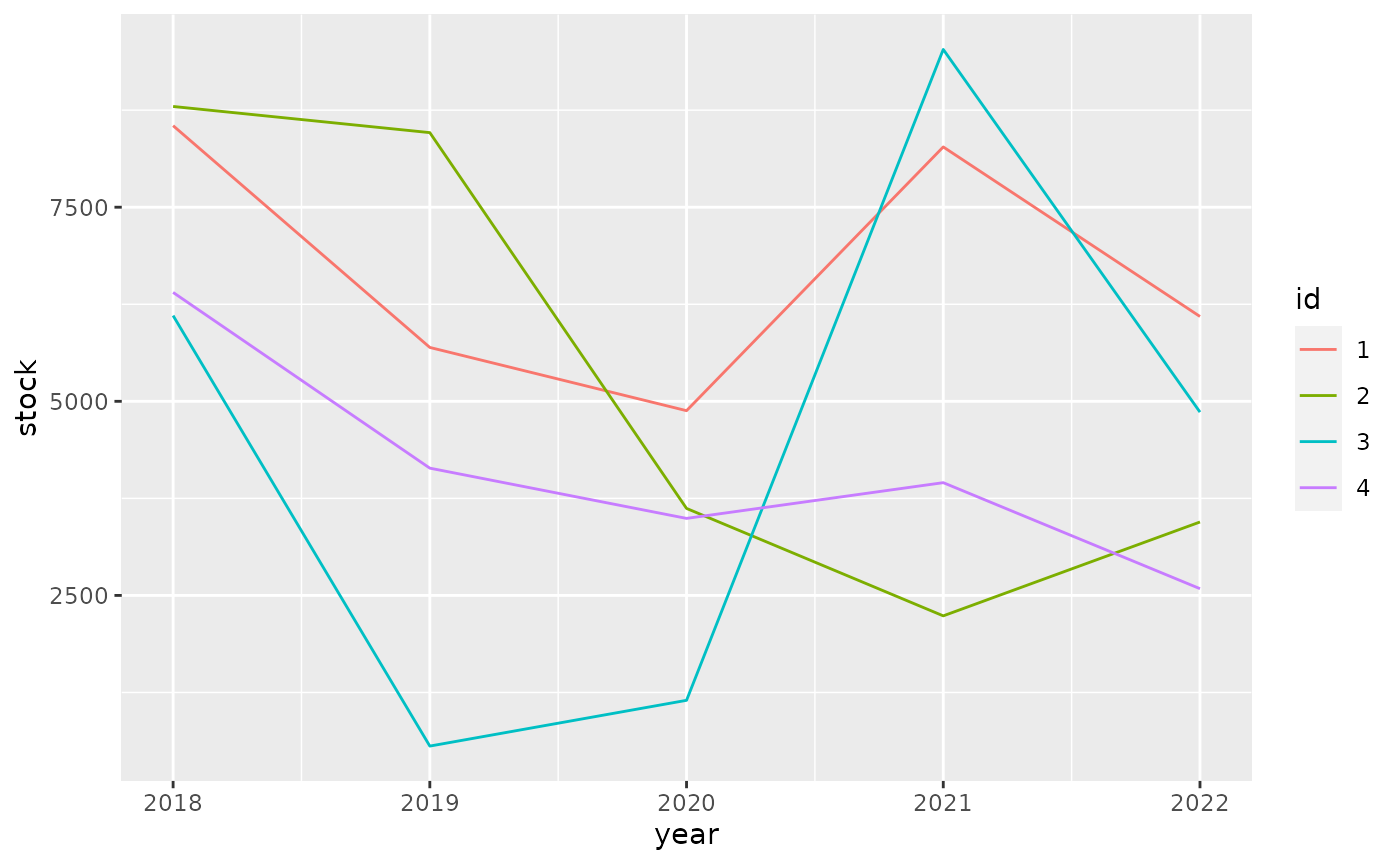
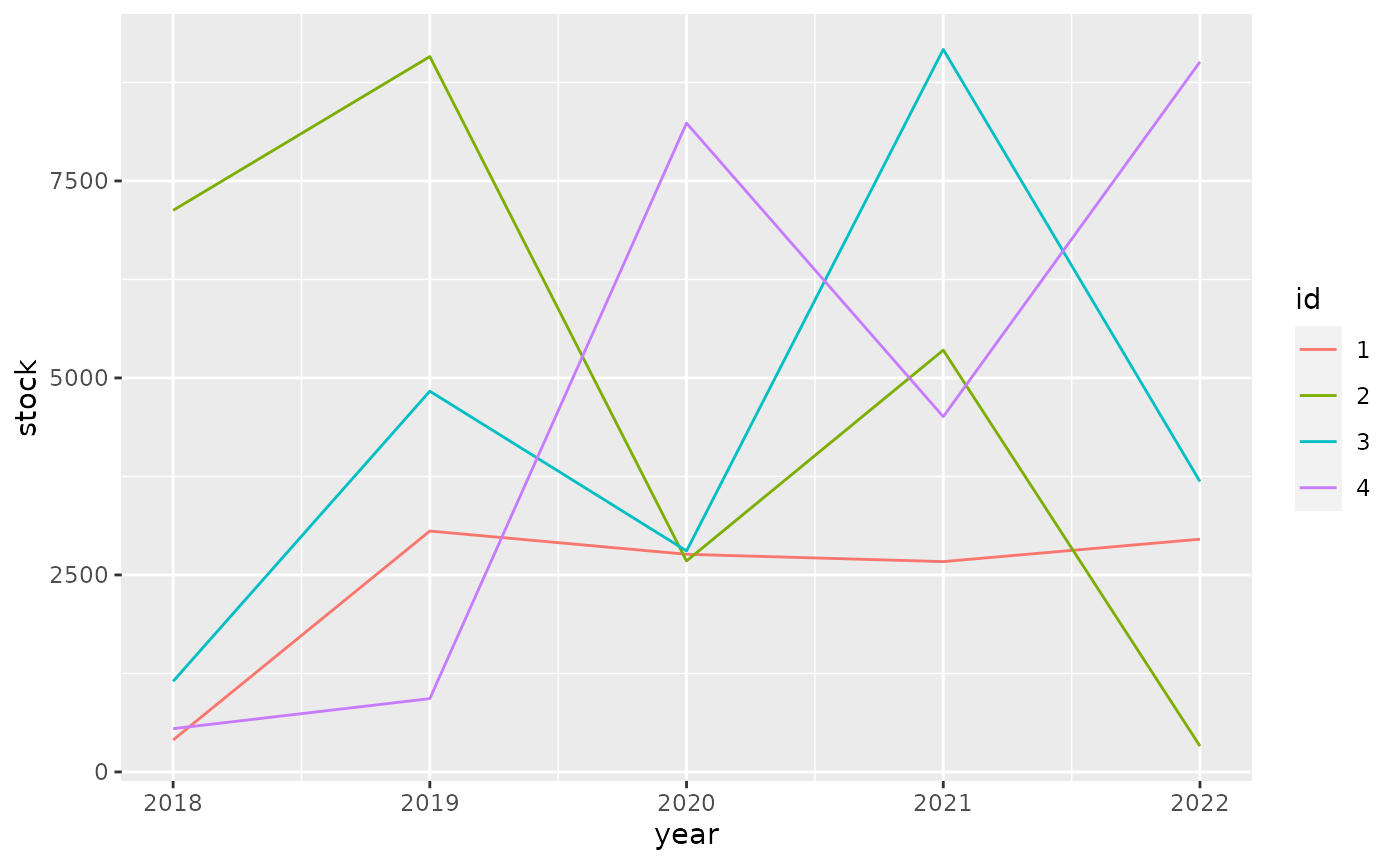
Built site for tibble: 3.1.1@6926f2c

diff --git a/articles/formats.html b/articles/formats.html
@@ -220,10 +220,10 @@
 <span class="co">#&gt; # A tibble: 4 x 6</span>
 <span class="co">#&gt;   id       `2018`    `2019`    `2020`    `2021`    `2022`</span>
 <span class="co">#&gt;   &lt;fct&gt; &lt;dbl:fmt&gt; &lt;dbl:fmt&gt; &lt;dbl:fmt&gt; &lt;dbl:fmt&gt; &lt;dbl:fmt&gt;</span>
-<span class="co">#&gt; 1 1     $8,550.19 $5,693.95 $4,879.44 $8,276.35 $6,092.59</span>
-<span class="co">#&gt; 2 2     $8,797.54 $8,460.61 $3,620.41 $2,236.76 $3,445.74</span>
-<span class="co">#&gt; 3 3     $6,104.12   $559.54 $1,148.95 $9,532.03 $4,860.83</span>
-<span class="co">#&gt; 4 4     $6,402.59 $4,139.20 $3,492.07 $3,952.30 $2,586.79</span></code></pre></div>
+<span class="co">#&gt; 1 1       $405.69 $3,057.14 $2,762.27 $2,669.20 $2,953.64</span>
+<span class="co">#&gt; 2 2     $7,126.64 $9,077.79 $2,677.16 $5,352.59   $328.29</span>
+<span class="co">#&gt; 3 3     $1,149.65 $4,831.61 $2,804.90 $9,168.54 $3,685.14</span>
+<span class="co">#&gt; 4 4       $549.12   $930.29 $8,233.70 $4,508.70 $9,011.88</span></code></pre></div>
 <p>For ggplot2 we need to do <a href="https://github.com/tidyverse/ggplot2/pull/4065" class="external-link">some work</a> to show apply the formatting to the scales.</p>
 <div class="sourceCode" id="cb6"><pre class="downlit sourceCode r">
 <code class="sourceCode R"><span class="kw"><a href="https://rdrr.io/r/base/library.html" class="external-link">library</a></span><span class="op">(</span><span class="va"><a href="https://ggplot2.tidyverse.org" class="external-link">ggplot2</a></span><span class="op">)</span>
@@ -234,10 +234,10 @@
   <span class="fu"><a href="https://ggplot2.tidyverse.org/reference/geom_path.html" class="external-link">geom_line</a></span><span class="op">(</span><span class="op">)</span></code></pre></div>
 <p><img src="formats_files/figure-html/unnamed-chunk-7-1.png" width="700"></p>
 <p>It pays off to specify formatting very early in the process. The diagram below shows the principal stages of data analysis and exploration from “R for data science”.</p>
-<div id="htmlwidget-d192fd4c2e72b564b6b4" style="width:700px;height:432.632880098888px;" class="DiagrammeR html-widget"></div>
-<script type="application/json" data-for="htmlwidget-d192fd4c2e72b564b6b4">{"x":{"diagram":"graph TD\n  Import --> Tidy\n  Tidy --> Transform\n  Transform --> Visualize\n  Visualize --> Communicate\n  Visualize --> Model\n  Model -.-> Transform"},"evals":[],"jsHooks":[]}</script><p>The subsequent diagram adds data formats, communication options, and explicit data formatting. The original r4ds transitions are highlighted in bold. There are two principal options where to apply formatting for results: right before communicating them, or right after importing.</p>
-<div id="htmlwidget-dab7a25208029a7ea3ed" style="width:700px;height:432.632880098888px;" class="DiagrammeR html-widget"></div>
-<script type="application/json" data-for="htmlwidget-dab7a25208029a7ea3ed">{"x":{"diagram":"graph TD\n  .csv --> Import\n  API --> Import\n  DBI --> Import\n  dbplyr --> Import\n  Import -.-> Format[Format for analysis]\n  Format -.-> Tidy\n\n  subgraph r4ds\n  Import ==> Tidy\n  Tidy ==> Transform\n  Transform ==> Visualize\n  Visualize ==> Model\n  Model -.-> Transform\n  Visualize ==> Communicate\n  end\n\n  Visualize -.-> FormatComm[Format for communication]\n  FormatComm -.-> Communicate\n\n  FormatComm -- Apply formatting early --> Format\n\n  dbplyr -.-> Tidy\n  dbplyr -.-> Transform\n  dbplyr -.-> Visualize\n\n  Communicate --> gt\n  Communicate --> ggplot2\n  Communicate --> DT\n  Communicate --> plotly"},"evals":[],"jsHooks":[]}</script><p>Applying formatting early in the process gives the added benefit of showing the data in a useful format during the “Tidy”, “Transform”, and “Visualize” stages. For this to be useful, we need to ensure that the formatting options applied early:</p>
+<div id="htmlwidget-12e0195493898a10426d" style="width:700px;height:432.632880098888px;" class="DiagrammeR html-widget"></div>
+<script type="application/json" data-for="htmlwidget-12e0195493898a10426d">{"x":{"diagram":"graph TD\n  Import --> Tidy\n  Tidy --> Transform\n  Transform --> Visualize\n  Visualize --> Communicate\n  Visualize --> Model\n  Model -.-> Transform"},"evals":[],"jsHooks":[]}</script><p>The subsequent diagram adds data formats, communication options, and explicit data formatting. The original r4ds transitions are highlighted in bold. There are two principal options where to apply formatting for results: right before communicating them, or right after importing.</p>
+<div id="htmlwidget-5d15a429714535a90e80" style="width:700px;height:432.632880098888px;" class="DiagrammeR html-widget"></div>
+<script type="application/json" data-for="htmlwidget-5d15a429714535a90e80">{"x":{"diagram":"graph TD\n  .csv --> Import\n  API --> Import\n  DBI --> Import\n  dbplyr --> Import\n  Import -.-> Format[Format for analysis]\n  Format -.-> Tidy\n\n  subgraph r4ds\n  Import ==> Tidy\n  Tidy ==> Transform\n  Transform ==> Visualize\n  Visualize ==> Model\n  Model -.-> Transform\n  Visualize ==> Communicate\n  end\n\n  Visualize -.-> FormatComm[Format for communication]\n  FormatComm -.-> Communicate\n\n  FormatComm -- Apply formatting early --> Format\n\n  dbplyr -.-> Tidy\n  dbplyr -.-> Transform\n  dbplyr -.-> Visualize\n\n  Communicate --> gt\n  Communicate --> ggplot2\n  Communicate --> DT\n  Communicate --> plotly"},"evals":[],"jsHooks":[]}</script><p>Applying formatting early in the process gives the added benefit of showing the data in a useful format during the “Tidy”, “Transform”, and “Visualize” stages. For this to be useful, we need to ensure that the formatting options applied early:</p>
 <ul>
 <li>give a good user experience for analysis
 <ul>

diff --git a/index.html b/index.html
@@ -196,7 +196,7 @@
 <span class="c">#&gt; <span style="color: #555555;">3</span><span>     3     1    10</span></span>
 <span class="c">#&gt; <span style="color: #555555;">4</span><span>     4     1    17</span></span>
 <span class="c">#&gt; <span style="color: #555555;">5</span><span>     5     1    26</span></span></pre>
-<p><a href="https://tibble.tidyverse.org/reference/tibble.html"><code>tibble()</code></a> does much less than <a href="https://rdrr.io/r/base/data.frame.html" class="external-link"><code>data.frame()</code></a>: it never changes the type of the inputs (e.g. it never converts strings to factors!), it never changes the names of variables, it only recycles inputs of length 1, and it never creates <a href="https://rdrr.io/r/base/row.names.html" class="external-link"><code>row.names()</code></a>. You can read more about these features in the vignette, <code><a href="articles/tibble.html">vignette("tibble")</a></code>.</p>
+<p><a href="https://tibble.tidyverse.org/reference/tibble.html"><code>tibble()</code></a> does much less than <a href="https://rdrr.io/r/base/data.frame.html" class="external-link"><code>data.frame()</code></a>: it never changes the type of the inputs (e.g. it never converts strings to factors!), it never changes the names of variables, it only recycles inputs of length 1, and it never creates <a href="https://rdrr.io/r/base/row.names.html" class="external-link"><code>row.names()</code></a>. You can read more about these features in <code><a href="articles/tibble.html">vignette("tibble")</a></code>.</p>
 <p>You can define a tibble row-by-row with <a href="https://tibble.tidyverse.org/reference/tribble.html"><code>tribble()</code></a>:</p>
 <pre class="chroma">
 <span class="nf"><a href="https://tibble.tidyverse.org/reference/tribble.html">tribble</a></span><span class="o">(</span>

diff --git a/articles/types.html b/articles/types.html
@@ -351,7 +351,7 @@
 #&gt; $ factor        &lt;fct&gt; A
 #&gt; $ ordered       &lt;ord&gt; a
 #&gt; $ Date          &lt;date&gt; 2021-04-18
-#&gt; $ POSIXt        &lt;dttm&gt; 2021-04-18 07:32:46
+#&gt; $ POSIXt        &lt;dttm&gt; 2021-04-18 07:40:02
 #&gt; $ difftime      &lt;drtn&gt; 1 secs
 #&gt; $ hms           &lt;time&gt; 00:00:01
 #&gt; $ integer64     &lt;int64&gt; 10000000000
@@ -387,7 +387,7 @@
 <span class="co">#&gt;             "sym"</span>
 <span class="co">#&gt;         }, typeof(x))</span>
 <span class="co">#&gt; }</span>
-<span class="co">#&gt; &lt;bytecode: 0x55974728ffa8&gt;</span>
+<span class="co">#&gt; &lt;bytecode: 0x5583b81b98b8&gt;</span>
 <span class="co">#&gt; &lt;environment: namespace:pillar&gt;</span></code></pre></div>
 </div>
   </div>
